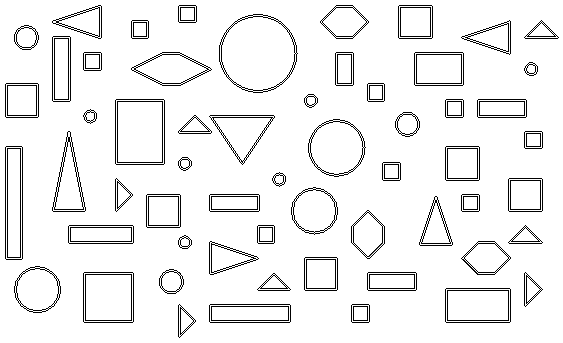
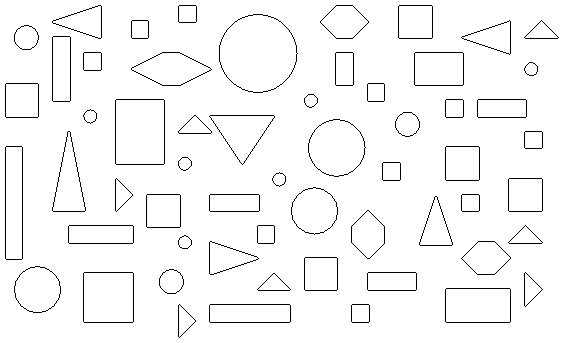
change tranformation to gray image

diff --git a/image_measurements.py b/image_measurements.py
@@ -8,19 +8,21 @@ class ImageMeasurements():
 
   def color_tranformation(self):
     image = self._manager.get_image()
-    black_image = cv.cvtColor(image, cv.COLOR_BGR2GRAY)
-    self._manager.save_image("color_tranform", black_image)
+    gray_image = cv.cvtColor(image, cv.COLOR_BGR2GRAY)
+    ret, thresh = cv.threshold(gray_image, 200, 255, 0)
+    self._manager.save_image("color_tranform", thresh)
   
   def border_detection(self):
     image = self._manager.get_image()
     gray_image = cv.cvtColor(image, cv.COLOR_BGR2GRAY)
-    image_border = cv.Laplacian(gray_image, cv.CV_64F)
+    ret, thresh = cv.threshold(gray_image, 200, 255, 0)
+    image_border = cv.Laplacian(thresh, cv.CV_64F)
     image_border[image_border == 0] = 255
     self._manager.save_image('border', image_border)
   
   def properties(self):
     image = self._manager.get_image()
     gray_image = cv.cvtColor(image, cv.COLOR_BGR2GRAY)
-    ret,  thresh = cv.threshold(gray_image, 127, 255, 0)
+    ret,  thresh = cv.threshold(gray_image, 200, 255, 0)
     contours, hierarchy = cv.findContours(thresh, 1, 2)
     print(len(contours))
